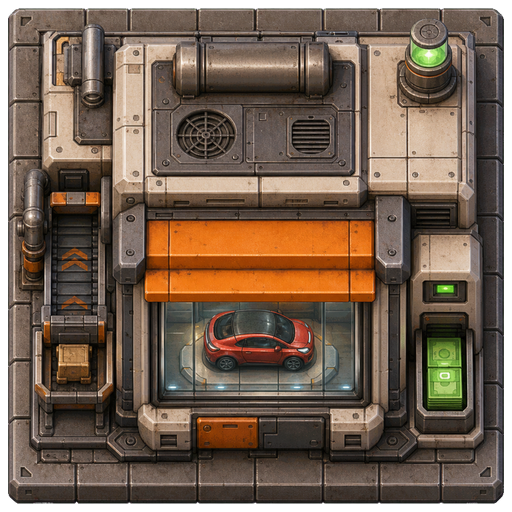
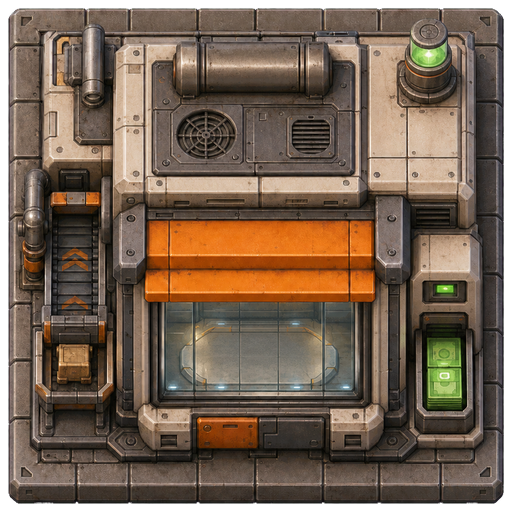
Show active vehicles inside Sales Offices

diff --git a/scripts/build-factoryx-art.py b/scripts/build-factoryx-art.py
@@ -14,6 +14,7 @@ MOD_GRAPHICS = ROOT / "mod/factoryx_0.1.0/graphics"
 ICON_DIR = MOD_GRAPHICS / "icons"
 ANIMATION_DIR = MOD_GRAPHICS / "animation"
 TECHNOLOGY_DIR = MOD_GRAPHICS / "technology"
+SHOWROOM_DIR = MOD_GRAPHICS / "entity/sales-office/showroom"
 ICON_SOURCE_DIR = ROOT / "art/factoryx-icon-sources"
 MASTER_DIR = ROOT / "art/factoryx-masters/final"
 
@@ -64,6 +65,28 @@ def derive_and_normalize_icons() -> None:
         normalized_icon(Image.open(source)).save(ICON_DIR / source.name, optimize=True)
 
     normalized_icon(Image.open(MASTER_DIR / "agi-model.png")).save(ICON_DIR / "agi-model.png", optimize=True)
+
+
+def build_sales_office_showroom_vehicles() -> None:
+    SHOWROOM_DIR.mkdir(parents=True, exist_ok=True)
+    for name in ("prototype-roadster", "premium-ev", "mass-market-ev", "cybertruck"):
+        sheet = Image.open(MOD_GRAPHICS / f"entity/vehicles/{name}.png").convert("RGBA")
+        frame_index = 16
+        left = (frame_index % 8) * 192
+        top = (frame_index // 8) * 192
+        frame = sheet.crop((left, top, left + 192, top + 192))
+        bbox = alpha_bbox(frame)
+        if not bbox:
+            raise RuntimeError(f"Vehicle showroom frame is empty: {name}")
+        vehicle = frame.crop(bbox)
+        scale = min(104 / vehicle.width, 54 / vehicle.height)
+        vehicle = vehicle.resize(
+            (max(1, round(vehicle.width * scale)), max(1, round(vehicle.height * scale))),
+            Image.Resampling.LANCZOS,
+        )
+        canvas = Image.new("RGBA", (128, 80))
+        canvas.alpha_composite(vehicle, ((128 - vehicle.width) // 2, (80 - vehicle.height) // 2))
+        canvas.save(SHOWROOM_DIR / f"{name}.png", optimize=True)
 
 
 def glow(draw: ImageDraw.ImageDraw, center: tuple[float, float], radius: int, color: tuple[int, int, int], alpha: int) -> None:
@@ -192,9 +215,11 @@ def build_technology_icons() -> None:
 
 def main() -> int:
     derive_and_normalize_icons()
+    build_sales_office_showroom_vehicles()
     build_animations()
     build_technology_icons()
     print(f"Built normalized icons in {ICON_DIR}")
+    print(f"Built Sales Office vehicle overlays in {SHOWROOM_DIR}")
     print(f"Built animation overlays in {ANIMATION_DIR}")
     print(f"Built technology icons in {TECHNOLOGY_DIR}")
     return 0

diff --git a/tests/test_factoryx_mod.py b/tests/test_factoryx_mod.py
@@ -29,6 +29,20 @@ class FactoryXModTest(unittest.TestCase):
         self.assertIn('if entity.name ~= SALES_OFFICE_NAME then', control)
         self.assertNotIn('add_station_info_label(panel, "Recipe: none selected")', control)
 
+    def test_sales_office_showroom_tracks_active_sale_recipe(self):
+        data = (MOD / "data.lua").read_text()
+        control = (MOD / "control.lua").read_text()
+        art_script = (ROOT / "scripts/build-factoryx-art.py").read_text()
+        self.assertIn('name = "x-sales-office-showroom-" .. vehicle_name', data)
+        for vehicle in ["prototype-roadster", "premium-ev", "mass-market-ev", "cybertruck"]:
+            self.assertIn(f'"{vehicle}"', data)
+            self.assertTrue((MOD / f"graphics/entity/sales-office/showroom/{vehicle}.png").exists())
+        self.assertIn("SALES_OFFICE_SHOWROOM_SPRITES", control)
+        self.assertIn("office.status == defines.entity_status.working", control)
+        self.assertIn("function update_sales_office_showrooms()", control)
+        self.assertIn("destroy_sales_office_showroom_rendering(entity.unit_number)", control)
+        self.assertIn("build_sales_office_showroom_vehicles()", art_script)
+
     def test_ev_progression_is_gated_by_completed_sales(self):
         control = (MOD / "control.lua").read_text()
         data = (MOD / "data.lua").read_text()

diff --git a/factoryX.md b/factoryX.md
@@ -1555,7 +1555,7 @@ FactoryX products live beside the vanilla systems they extend:
 
 | Prototype | Player Name | Current Base | Needs New Artwork? | Notes |
 | --- | --- | --- | --- | --- |
-| `x-sales-office` | Sales Office | Final footprint-aligned generated master | No | The approved showroom design was re-rendered on a clean 3x3 slab, extracted to alpha, normalized into an entity icon, and given crafting status-light animation. |
+| `x-sales-office` | Sales Office | Final footprint-aligned generated master | No | The square 3x3 showroom is empty while idle. During an active sale, a runtime overlay derived from the corresponding drivable vehicle sheet displays the Roadster, Premium EV, Mass-market EV, or Megatruck on the showroom pad. |
 | `x-ev-charging-station` | EV Charging Station | Dedicated aligned 2x2, four-stall sprite | No | Square footprint-filling art and matching icon are wired. |
 | `x-ev-charging-station-v2` | EV Charging Station V2 | Dedicated aligned 4x4, eight-stall sprite | No | Larger transformers and cyan high-power treatment distinguish V2. |
 | `x-ev-charging-station-v3` | V3 Supercharger | Dedicated aligned 5x5, 12-stall sprite | No | Twelve visible charger pedestals and liquid-cooled edge equipment distinguish V3. |
